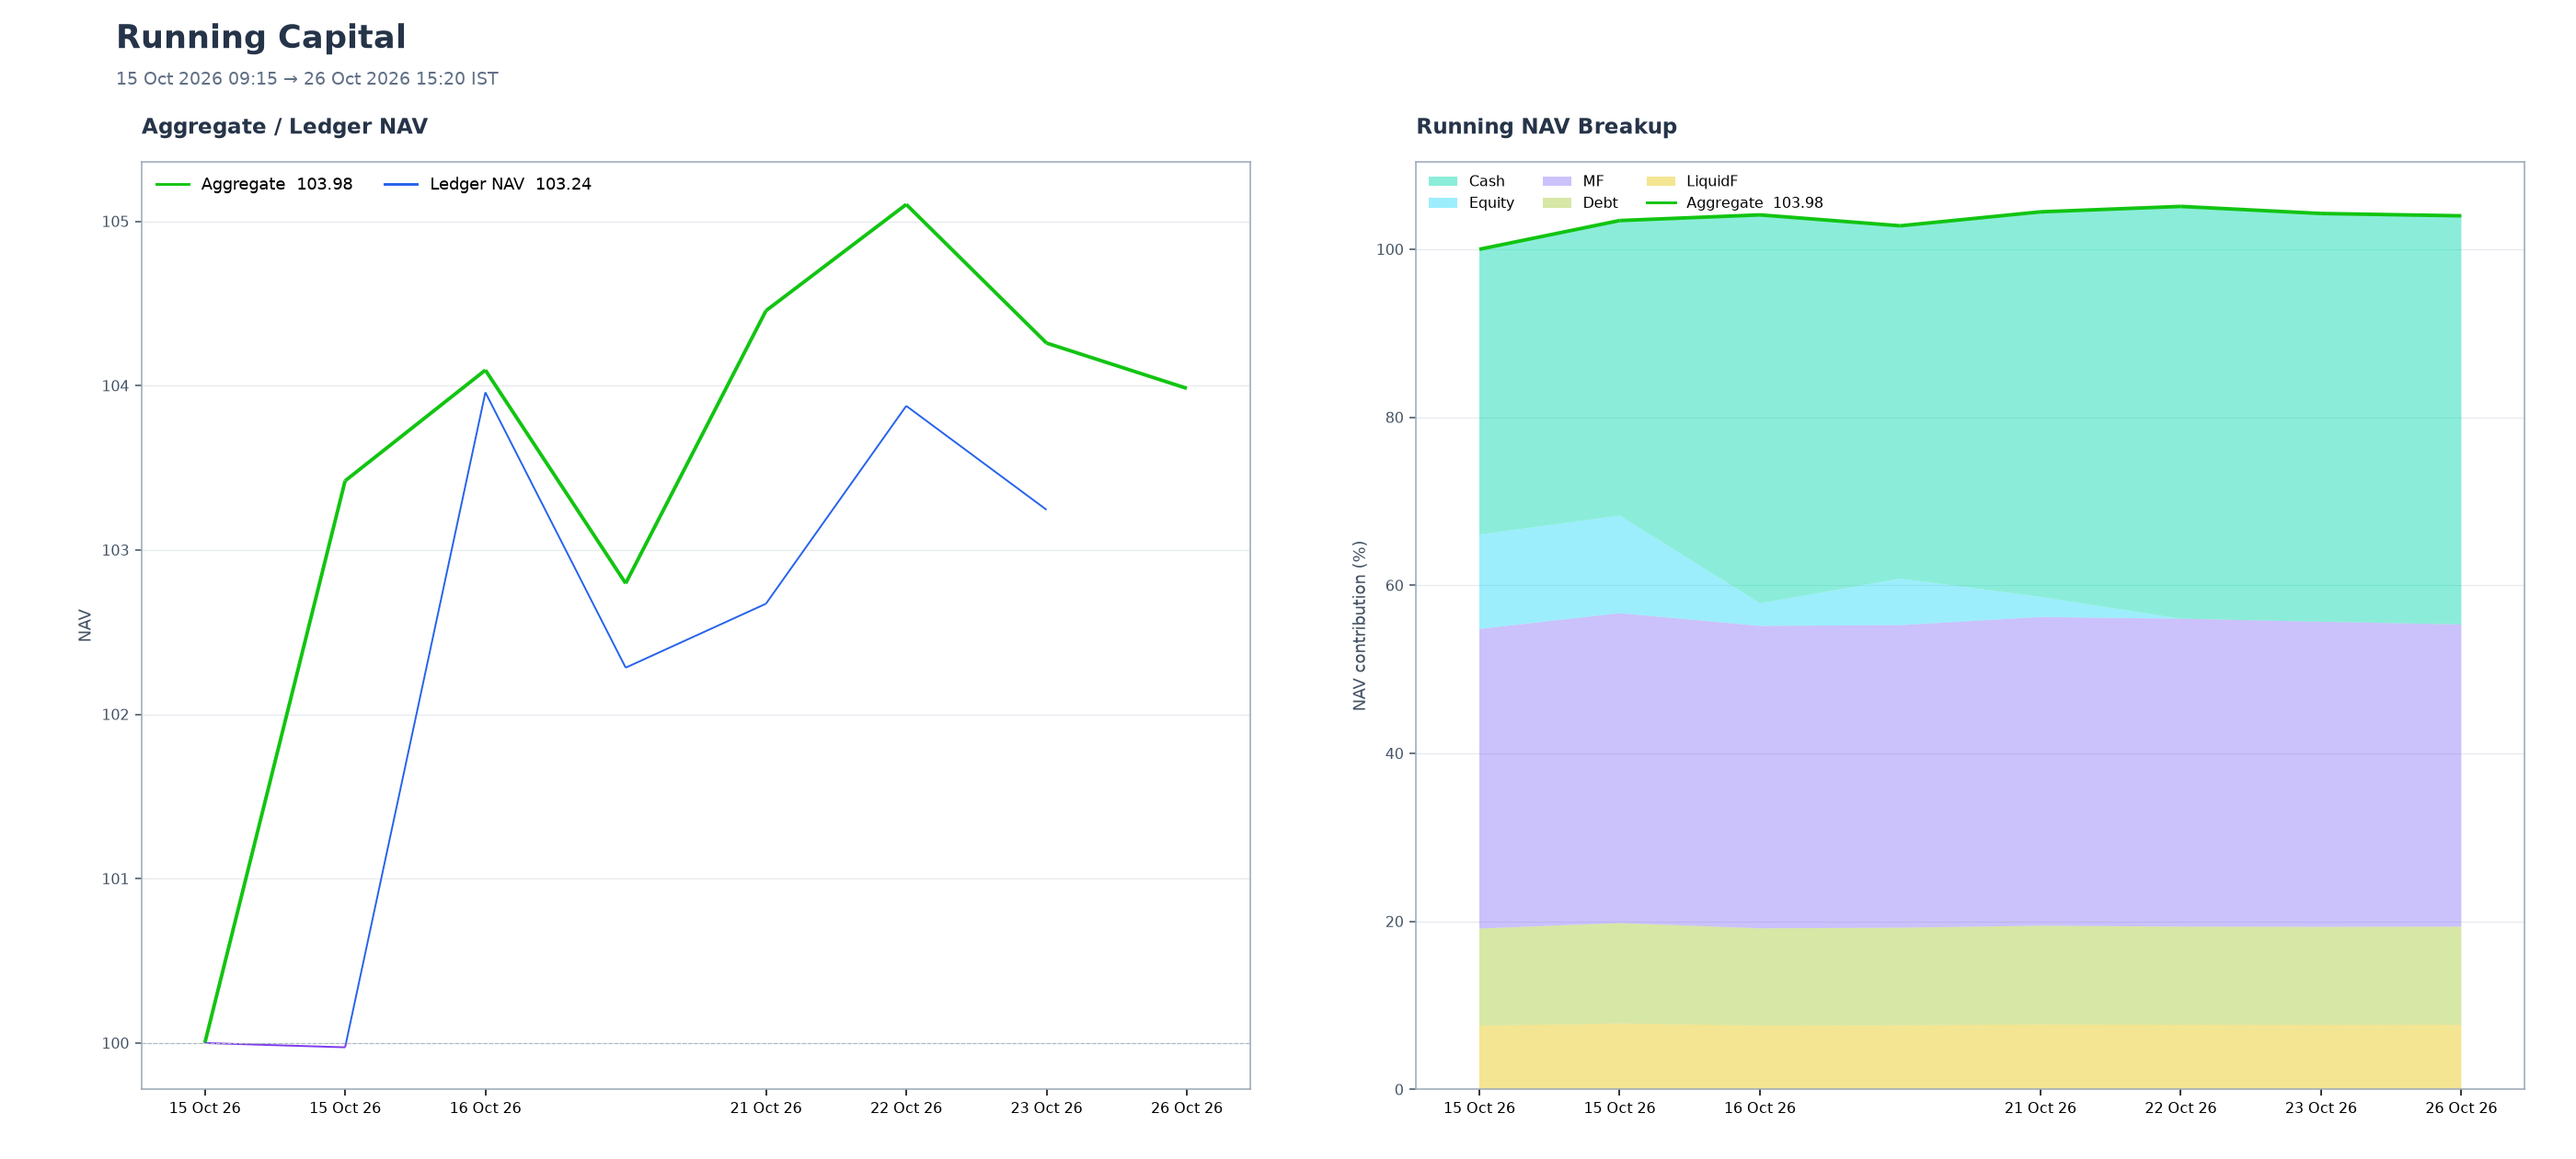
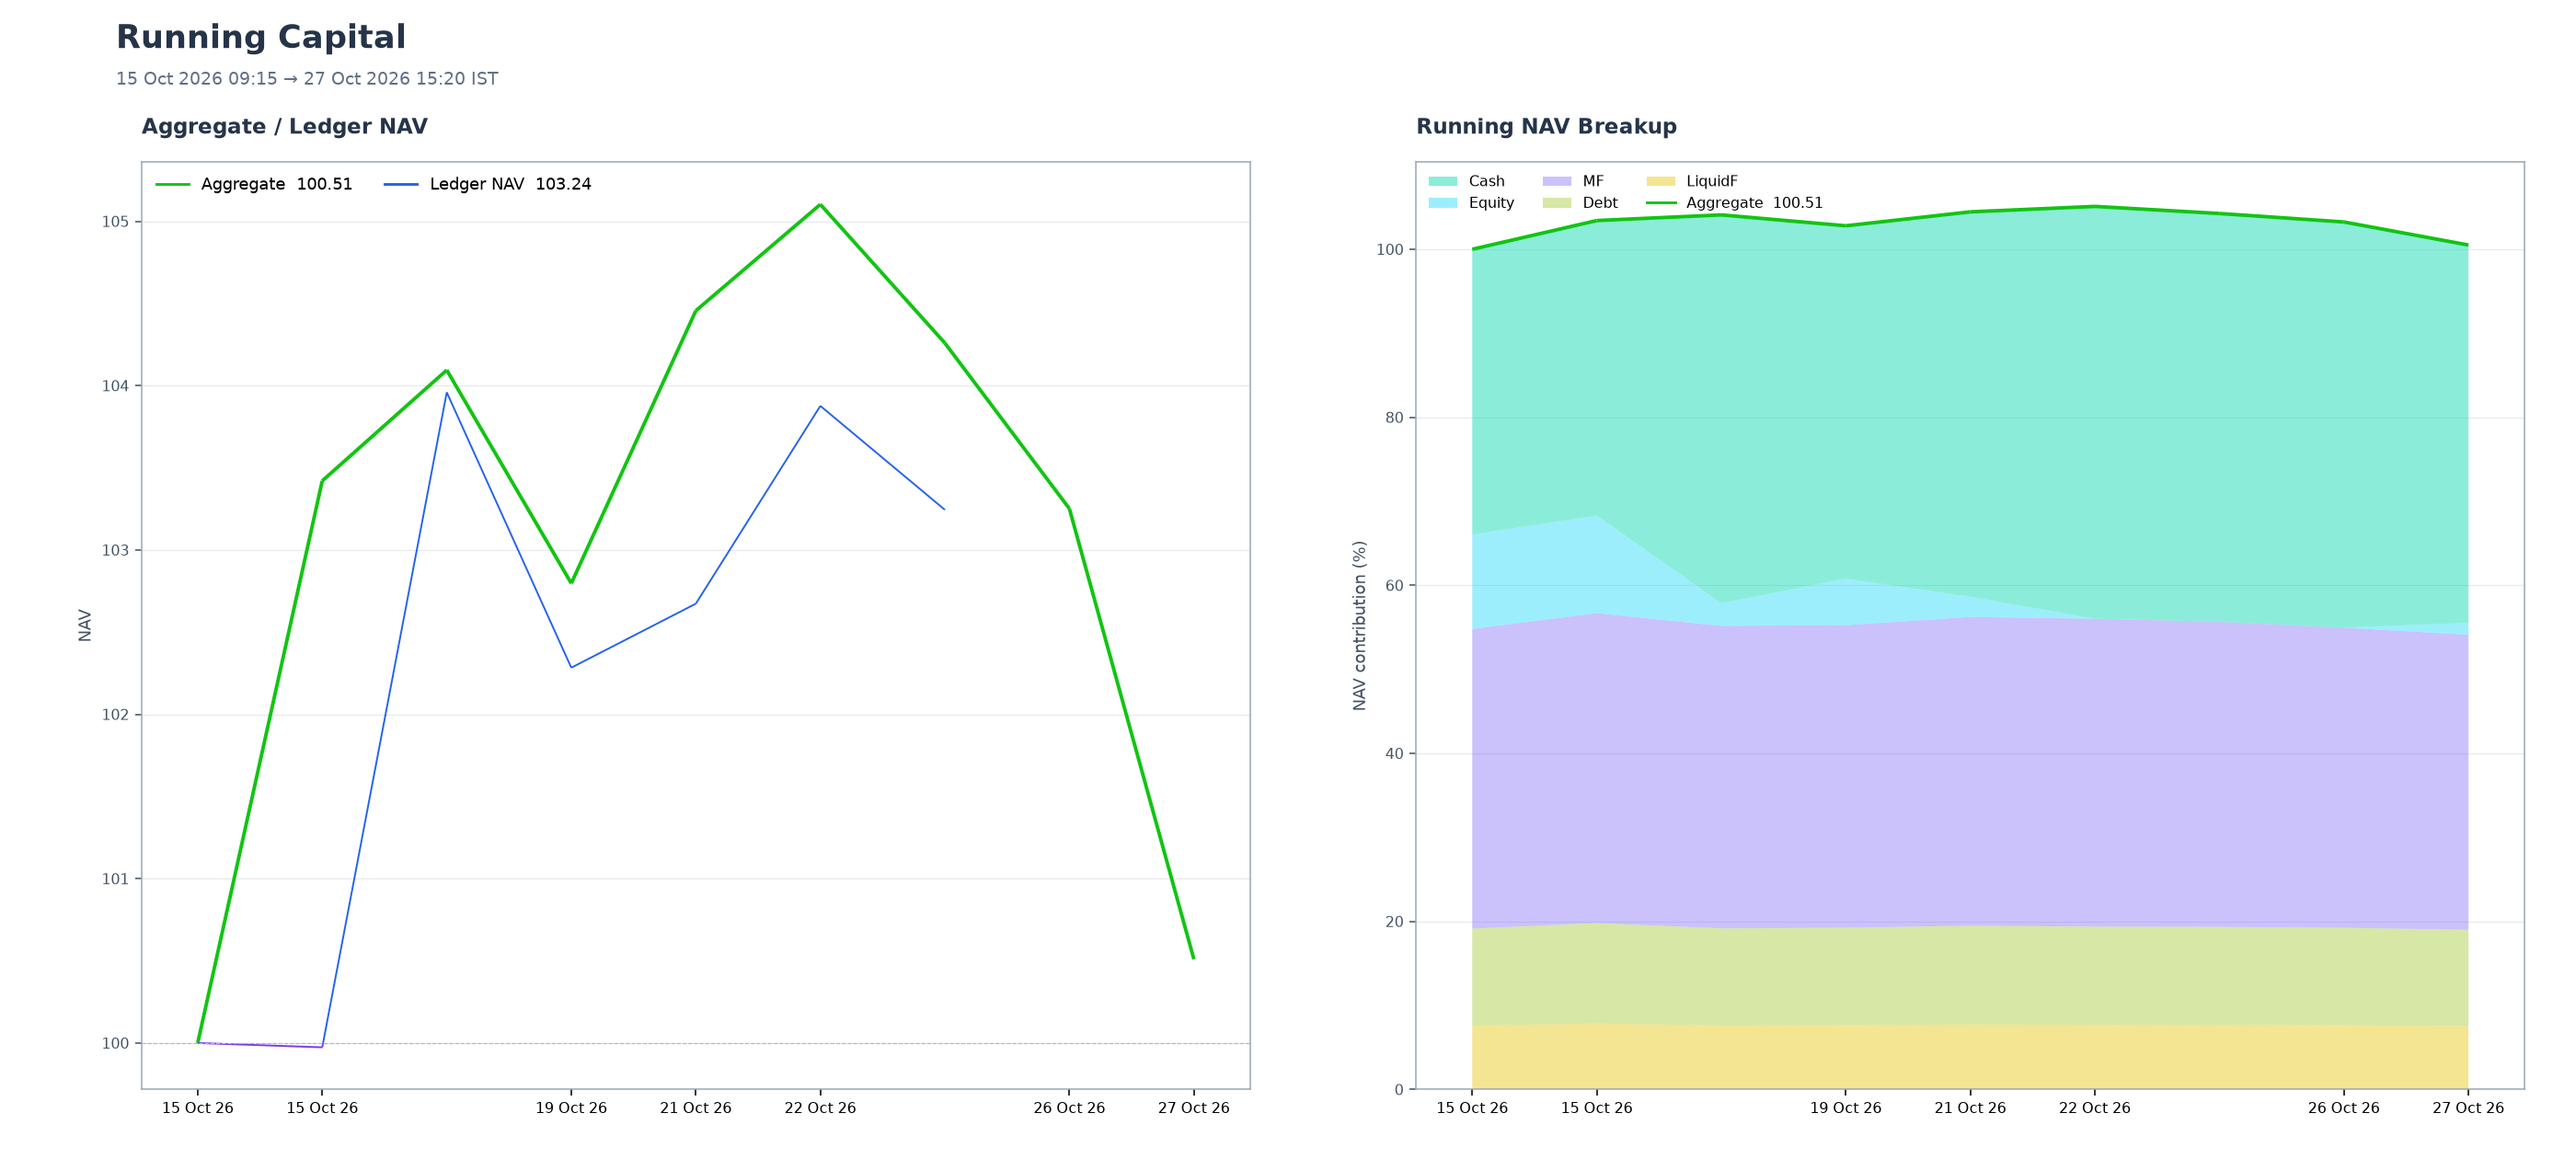
Nabz report 2026-10-27

diff --git a/content/daily/20261027.md b/content/daily/20261027.md
@@ -1,0 +1,9 @@
+---
+title: "20261027"
+date: 2026-10-27T15:20:00+05:30
+slug: "20261027"
+folder: "20261027"
+iso_date: "2026-10-27"
+preview: false
+strategy_today: "1520-strategy-today-REL.png"
+---

diff --git a/content/i/0594bd971ffcd67bd83e.md b/content/i/0594bd971ffcd67bd83e.md
@@ -1,0 +1,4 @@
+---
+title: "Today's P&L"
+image: "i/0594bd971ffcd67bd83e.png"
+---
